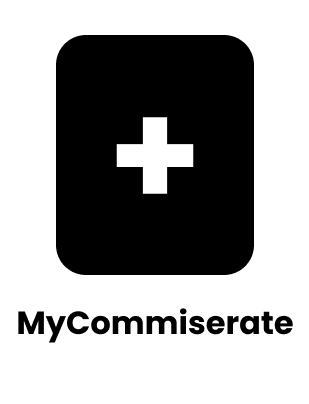
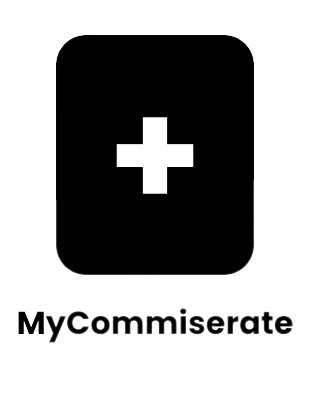
Melhora na estilização + tem o que melhorar.

diff --git a/static/js/index.js b/static/js/index.js
@@ -43,3 +43,30 @@ document.addEventListener("DOMContentLoaded", function () {
     usuarioInput.addEventListener("keypress", handleKeyPress);
     senhaInput.addEventListener("keypress", handleKeyPress);
 });
+
+const modoAltButton = document.getElementById('modoAlt');
+const body = document.getElementById('body');
+const formContainer = document.getElementsByClassName('formContainer')[0];
+const userContainer = document.getElementsByClassName('userContainer')[0];
+const passwdContainer = document.getElementsByClassName('passwdContainer')[0];
+const logoContainer = document.getElementsByClassName('logoContainer')[0];
+const line = document.getElementsByClassName('line')[0];
+const botaoEntrar = document.getElementById('entrar');
+const botaoCadastro = document.getElementById('cadastro');
+const usuario = document.getElementById('usuario');
+const senha = document.getElementById('senha');
+
+
+modoAltButton.addEventListener('click', function () {
+    senha.classList.toggle('modoAltInput');
+    usuario.classList.toggle('modoAltInput');
+    body.classList.toggle('modoAltBody');
+    botaoEntrar.classList.toggle('modoAlt');
+    botaoCadastro.classList.toggle('modoAlt');
+    modoAltButton.classList.toggle('modoAlt');
+    formContainer.classList.toggle('modoAlt');
+    userContainer.classList.toggle('modoAlt');
+    line.classList.toggle('lineAlt');
+    passwdContainer.classList.toggle('modoAlt');
+    logoContainer.classList.toggle('modoAltBody');
+});

diff --git a/static/css/index.css b/static/css/index.css
@@ -5,7 +5,8 @@
   text-align: center;
   background: rgba(255, 255, 255);
   justify-content: center;
-  margin-bottom: 30px;
+  margin-top: 20px;
+  margin-bottom: 25px;
 }
 
 .formContainer {
@@ -37,19 +38,28 @@
 }
 
 .btnContainer{
-  margin: 10px auto;
-  padding-top: 25px;
-  display: flex;
-}
-
-.explicacaoContainer{
   margin: 0 auto;
   padding-top: 25px;
   display: flex;
 }
 
+.btnContainermodoAlt{
+  margin: 0 auto;
+  display: flex;
+}
+
+.explicacaoContainer{
+  margin: 0 auto;
+  margin-top: 25vh;
+  margin-bottom: 25vh;
+  padding-top: 25px;
+  display: flex;
+}
+
 #Logo{
+  width: 20vw;
   margin-top: 20px;
+  padding: 10px 30px;
 }
 
 #textoInformativo{
@@ -76,6 +86,28 @@
   margin: 30px 0px;
 }
 
+.lineAlt{
+  border: 6px solid #ffffff;
+  margin: 30px 0px;
+}
+
+
+.modoAlt {
+  background-color: rgb(255, 255, 255);
+  color: rgb(0, 0, 0);
+}
+
+.modoAltInput {
+  background-color: rgb(255, 255, 255);
+  color: rgb(0, 0, 0);
+  border-color: #000;
+}
+
+.modoAltBody {
+  background-color: rgb(0, 0, 0);
+  color: rgb(255, 255, 255);
+}
+
 
 @media screen and (max-device-width: 768px) {
     .formContainer{
@@ -88,6 +120,12 @@
     .userInput, 
     .passwdInput{
       font-size: 35px;
+    }
+
+    #Logo{
+      width: 030vw;
+      margin-top: 20px;
+      padding: 10px 30px;
     }
 }
   

diff --git a/views/index.html b/views/index.html
@@ -12,11 +12,14 @@
 </head>
 
 
-<body>
+<body id="body">
   <div class="logoContainer">
-    <img id="imagemLogo" src="../static/images/v23_33.png" alt="logo"> 
+    <img id="imagemLogo" src="../static/images/logo.png" alt="logo"> 
   </div>
-
+  <div class="btnContainermodoAlt">
+    <button class="btn bg-black" id="modoAlt">Modo Alternativo</button>
+  </div>
+  <br>
   <div class="formContainer">
     <div class="userContainer">
       <label for="usuario">Usuário:</label> <br />
@@ -34,9 +37,10 @@
   <div class="btnContainer">
     <button class="btn bg-black" id="cadastro">Cadastro</button>
   </div>
+  
   <hr class="line"/>
   <div class="explicacaoContainer">
-    <img id="Logo" src="../static/images/logopraindex.png" alt="logo"> 
+    <img id="Logo" src="../static/images/logo.png" alt="logo"> 
     <p id="textoInformativo">MyCommiserate, ainda em <br>desenvolvimento, <br>tem como objetivo,<br> ser um website onde será <br>possivel fazer anotações do <br>tamanho que desejar, <br>e ainda assim, será possível<br>separar elas em pastas.</p>
   </div>
  

diff --git a/views/home.html b/views/home.html
@@ -14,7 +14,7 @@
 <body>
     <div class="main">
         <div class="logoContainer">
-            <img id="imagemLogo" src="../static/images/v23_33.png" alt="logo" onclick="window.location.href='/'">
+            <img id="imagemLogo" src="../static/images/logo.png" alt="logo" onclick="window.location.href='/'">
         </div>
         <hr class="line">
         <div class="titleContainer">

diff --git a/static/css/global.css b/static/css/global.css
@@ -32,8 +32,18 @@ textarea{
 }
 
 #imagemLogo{
-  width: 10%;
-}
+    width: 12vw;
+    padding: 10px 30px;
+  }
+
+  .logoContainer  {
+    width: 100%;
+    text-align: center;
+    background: rgba(255, 255, 255);
+    justify-content: center;
+    margin-top: 20px;
+    margin-bottom: 25px;
+  }
 
 @media screen and (max-device-width: 768px){
   #imagemLogo{

diff --git a/views/editar.html b/views/editar.html
@@ -14,7 +14,7 @@
 <body>
     <div class="main">
         <div class="logoContainer">
-            <img id="imagemLogo" src="../static/images/v23_33.png" alt="logo"
+            <img id="imagemLogo" src="../static/images/logo.png" alt="logo"
                 onclick="window.location.href='/anotacoes.html'">
         </div>
         <hr class="line" />

diff --git a/views/p-editar.html b/views/p-editar.html
@@ -14,7 +14,7 @@
 <body>
     <div class="main">
         <div class="logoContainer">
-            <img id="imagemLogo" src="../static/images/v23_33.png" alt="logo"
+            <img id="imagemLogo" src="../static/images/logo.png" alt="logo"
                 onclick="window.location.href='/anotacoes.html'">
         </div>
         <hr class="line" />

diff --git a/views/pastas.html b/views/pastas.html
@@ -13,7 +13,7 @@
 <body>
     <div class="main">
         <div class="logoContainer">
-            <img id="imagemLogo" src="../static/images/v23_33.png" alt="logo"
+            <img id="imagemLogo" src="../static/images/logo.png" alt="logo"
                 onclick="window.location.href='/anotacoes.html'">
         </div>
         <hr class="line" />

diff --git a/views/anotacoes.html b/views/anotacoes.html
@@ -12,7 +12,7 @@
 <body>
     <div class="main">
         <div class="logoContainer">
-            <img id="imagemLogo" src="../static/images/v23_33.png" alt="logo"
+            <img id="imagemLogo" src="..\static\images\logo.png" alt="logo"
                 onclick="window.location.href='/home.html'">
         </div>
         <hr class="line" />

diff --git a/views/cadastro.html b/views/cadastro.html
@@ -12,7 +12,7 @@
 
 <body>
   <div class="logoContainer">
-    <img id="imagemLogo" src="../static/images/v23_33.png" onclick="window.location.href='/'" alt="logo">
+    <img id="imagemLogo" src="..\static\images\logo.png" onclick="window.location.href='/'" alt="logo">
   </div>
 
   <div class="formContainer">

diff --git a/internal/database/database.go b/internal/database/database.go
@@ -3,18 +3,18 @@ package database
 import (
 	"database/sql"
 	"fmt"
-	"os"
+	//"os"
 
 	_ "github.com/go-sql-driver/mysql"
 )
 
 func NewDB() (*sql.DB, error) {
 
-	dbUser := os.Getenv("DB_USER")
-	dbPassword := os.Getenv("DB_PASSWORD")
-	dbHost := os.Getenv("DB_HOST")
-	dbPort := os.Getenv("DB_PORT")
-	dbName := os.Getenv("DB_NAME")
+	dbUser := "root"
+	dbPassword := "ajCPqarJKpcy6cdvrAHF"
+	dbHost := "containers-us-west-83.railway.app"
+	dbPort := "7416"
+	dbName := "mycommiserate"
 
 	dsn := fmt.Sprintf("%s:%s@tcp(%s:%s)/%s", dbUser, dbPassword, dbHost, dbPort, dbName)
 	db, err := sql.Open("mysql", dsn)
